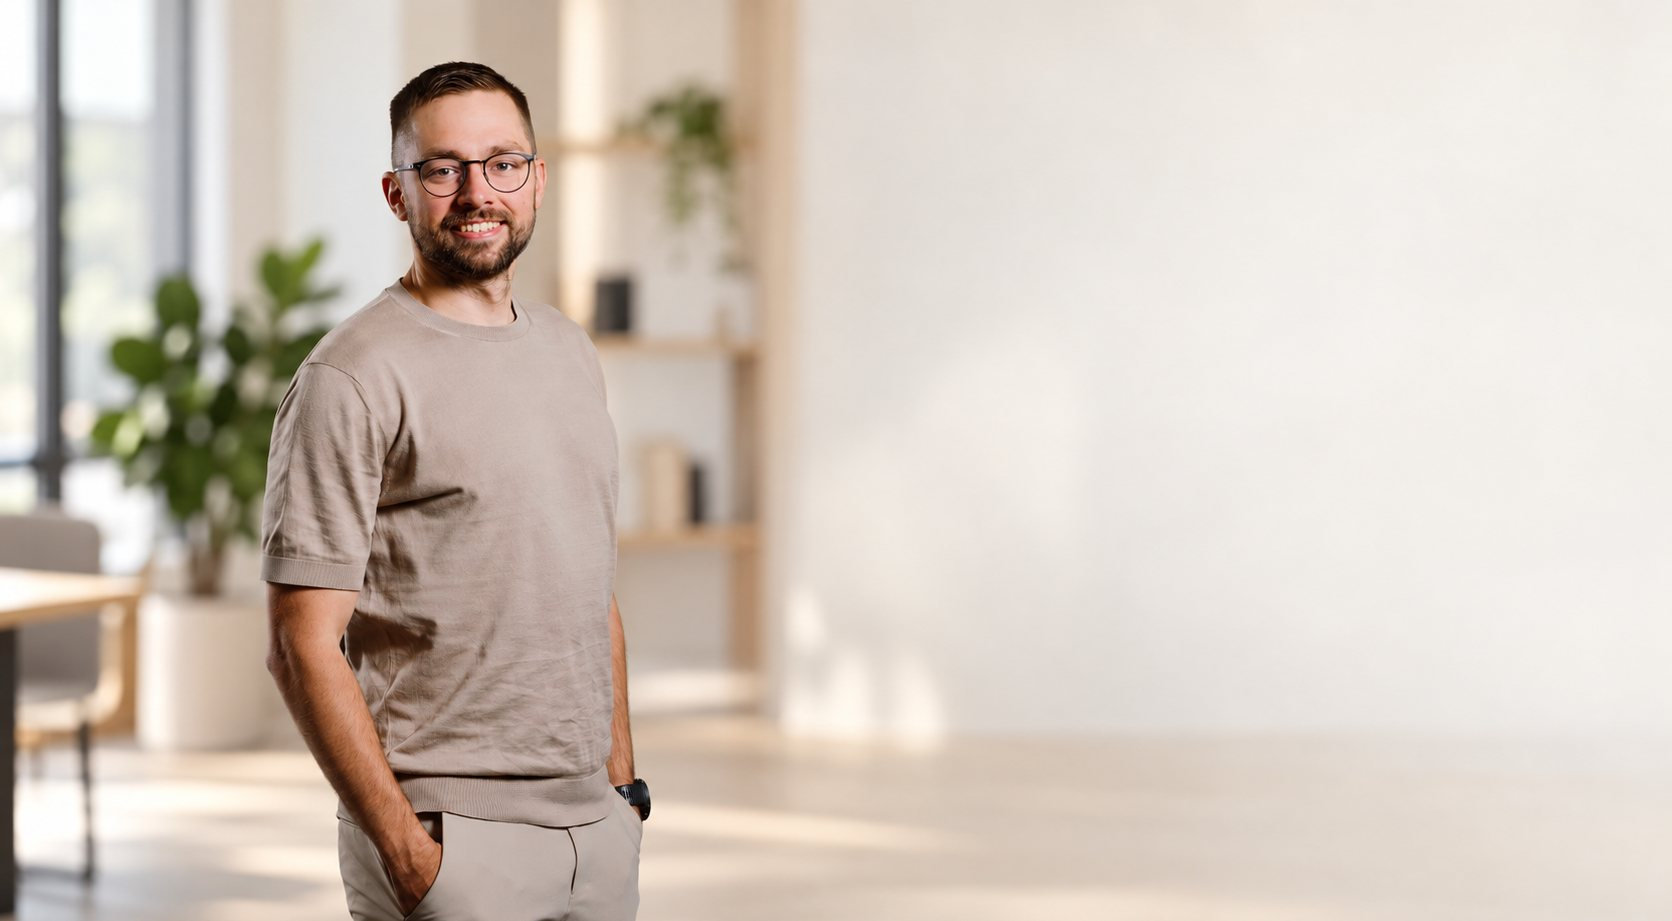
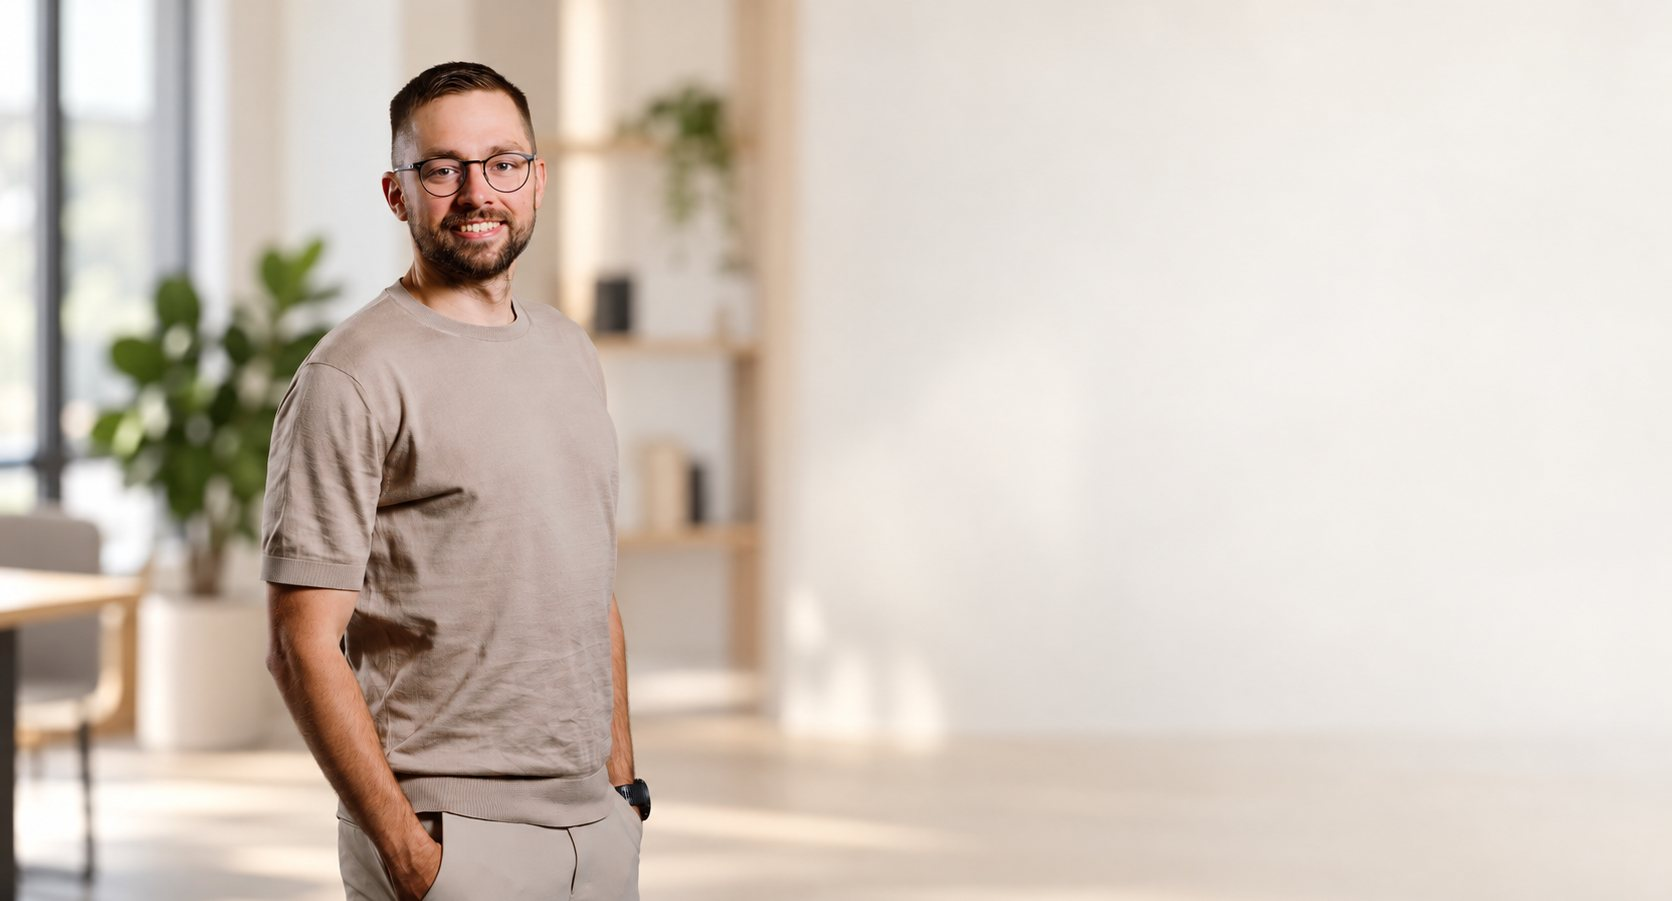
Expedio webinar: speakers heading inside Glebs's picture, 20px more cropped

diff --git a/src/sections/webinars-expedio/Speakers.tsx b/src/sections/webinars-expedio/Speakers.tsx
@@ -4,7 +4,8 @@ import { Reveal } from "@/components/primitives/Reveal";
 import { SPEAKERS } from "./details";
 import { assetUrl } from "@/lib/assets";
 
-/* Each speaker stands on one side of a full-width office picture; the copy sits in the empty side. */
+/* Each speaker stands on one side of a full-width office picture; the copy sits in the empty side.
+   The section heading sits in the first speaker's copy, above the name. */
 const STAGE: Record<string, { photo: string; text: "left" | "right" }> = {
   "Glebs Vrevsky": { photo: "/webinars/expedio/glebs-vrevsky-stage.jpg", text: "right" },
   "Alfreds Genkins": { photo: "/webinars/expedio/alfreds-genkins-stage.jpg", text: "left" },
@@ -12,15 +13,8 @@ const STAGE: Record<string, { photo: string; text: "left" | "right" }> = {
 
 export function Speakers() {
   return (
-    <section id="the-speakers" className="relative bg-lp-bright pt-24 md:pt-32 overflow-hidden scroll-mt-20">
-      <div className="wrap relative">
-        <Reveal delay={0.05}>
-          <h2 className="font-head text-[var(--sw-black)] text-[26px] sm:text-[32px] md:text-[40px] lg:text-[46px] leading-[1.05] tracking-[-0.01em]">
-            Who&apos;s running <span style={{ color: "var(--sw-blue)" }}>the session</span>
-          </h2>
-        </Reveal>
-      </div>
-      <ul className="mt-10 md:mt-14 flex flex-col">
+    <section id="the-speakers" className="relative bg-lp-bright overflow-hidden scroll-mt-20">
+      <ul className="flex flex-col">
         {SPEAKERS.map((s, i) => {
           const stage = STAGE[s.name];
           const right = stage.text === "right";
@@ -31,14 +25,19 @@ export function Speakers() {
                 <img
                   src={assetUrl(stage.photo)}
                   width={1672}
-                  height={921}
+                  height={901}
                   alt={s.name}
                   loading="lazy"
-                  className={`block w-full aspect-[4/3] sm:aspect-[1672/921] object-cover ${right ? "object-left" : "object-right"}`}
+                  className={`block w-full aspect-[4/3] sm:aspect-[1672/901] object-cover ${right ? "object-left" : "object-right"}`}
                 />
                 <div className="sm:absolute sm:inset-0">
                   <div className={`wrap flex h-full items-center py-6 sm:py-0 ${right ? "sm:justify-end" : ""}`}>
                     <div className="sm:w-1/2 sm:max-w-[480px]">
+                      {i === 0 && (
+                        <h2 className="mb-8 md:mb-12 font-head text-[var(--sw-black)] text-[26px] sm:text-[32px] md:text-[40px] lg:text-[46px] leading-[1.05] tracking-[-0.01em]">
+                          Who&apos;s running <span style={{ color: "var(--sw-blue)" }}>the session</span>
+                        </h2>
+                      )}
                       <div className="font-head font-bold text-[var(--sw-black)] text-[26px] md:text-[34px] lg:text-[40px] leading-[1.05] tracking-[-0.01em]">
                         {s.name}
                       </div>
